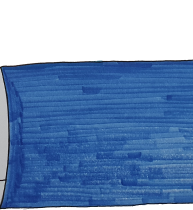
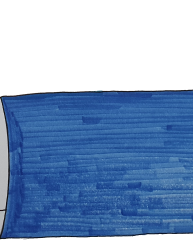
fg

diff --git a/Scripts/GameStates/levelWhiskey.ts b/Scripts/GameStates/levelWhiskey.ts
@@ -89,7 +89,7 @@
 
         this.hand = new PIXI.Sprite(PIXI.Loader.shared.resources["level-whiskey-hand0"].texture);
         this.hand.x = 487
-        this.hand.y = 430;
+        this.hand.y = 400;
 
         this.arm = new PIXI.Sprite(PIXI.Loader.shared.resources["level-whiskey-arm-p" + this.player].texture);
         this.arm.x = this.hand.x + this.hand.width;
